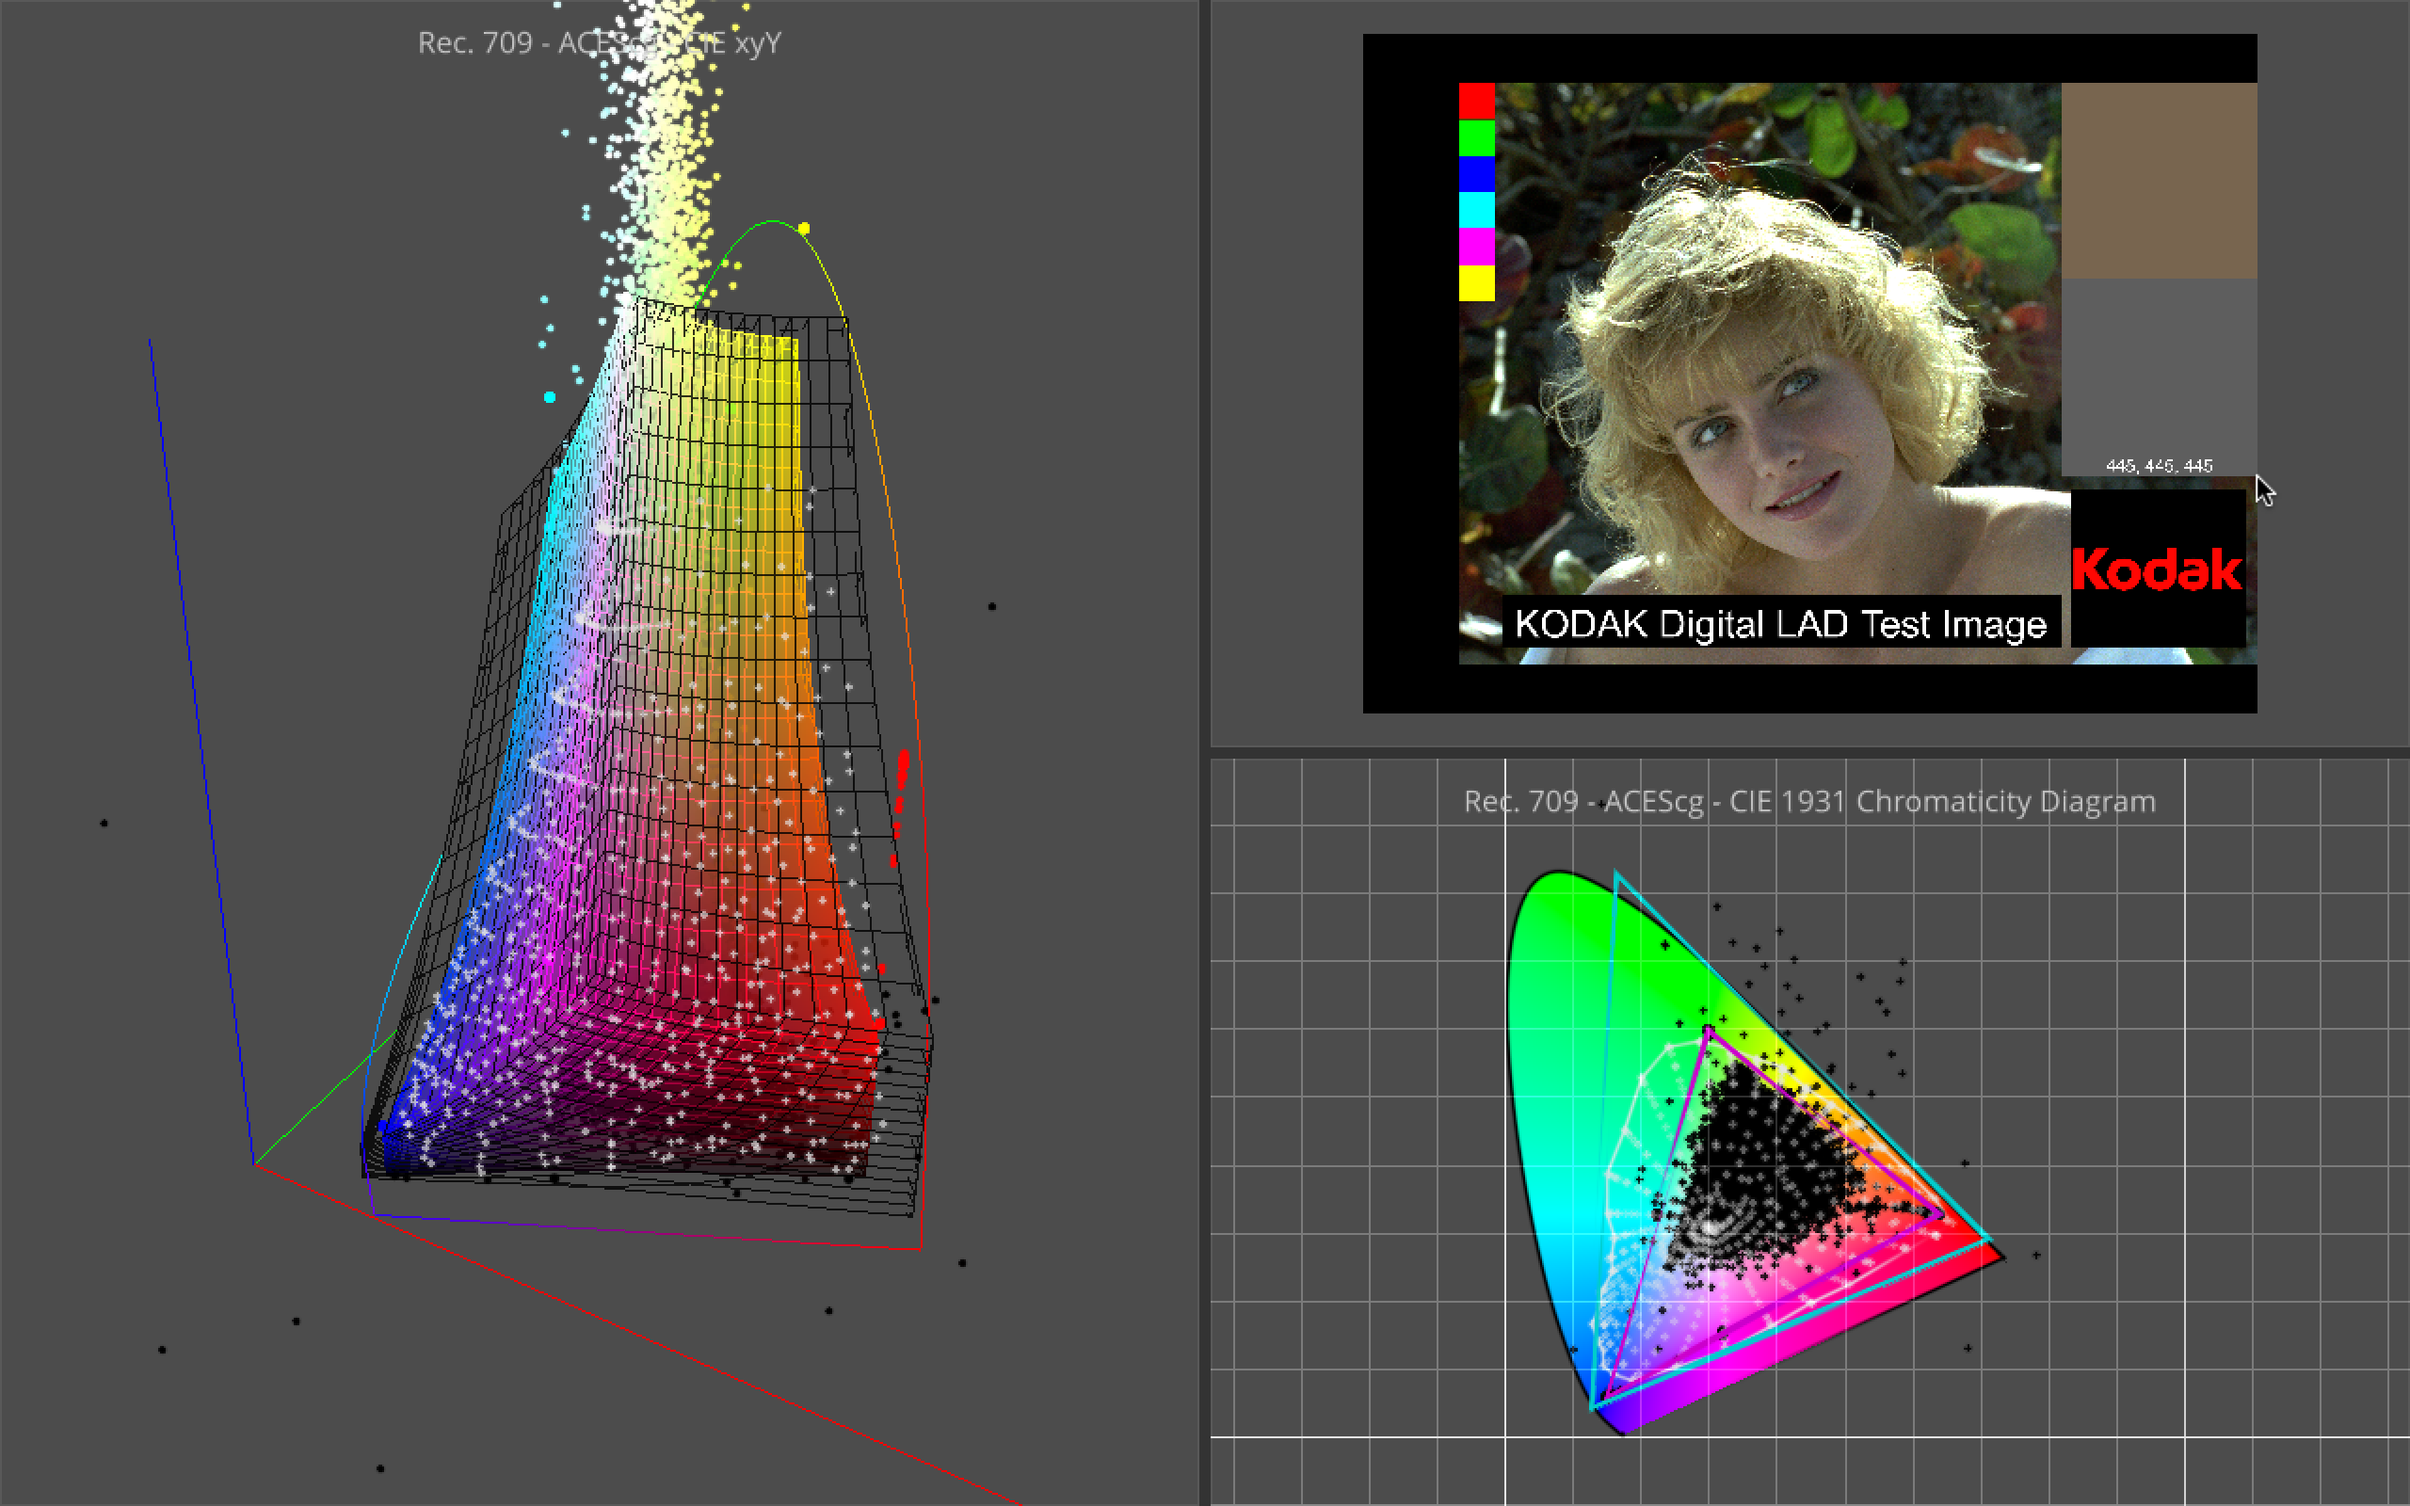
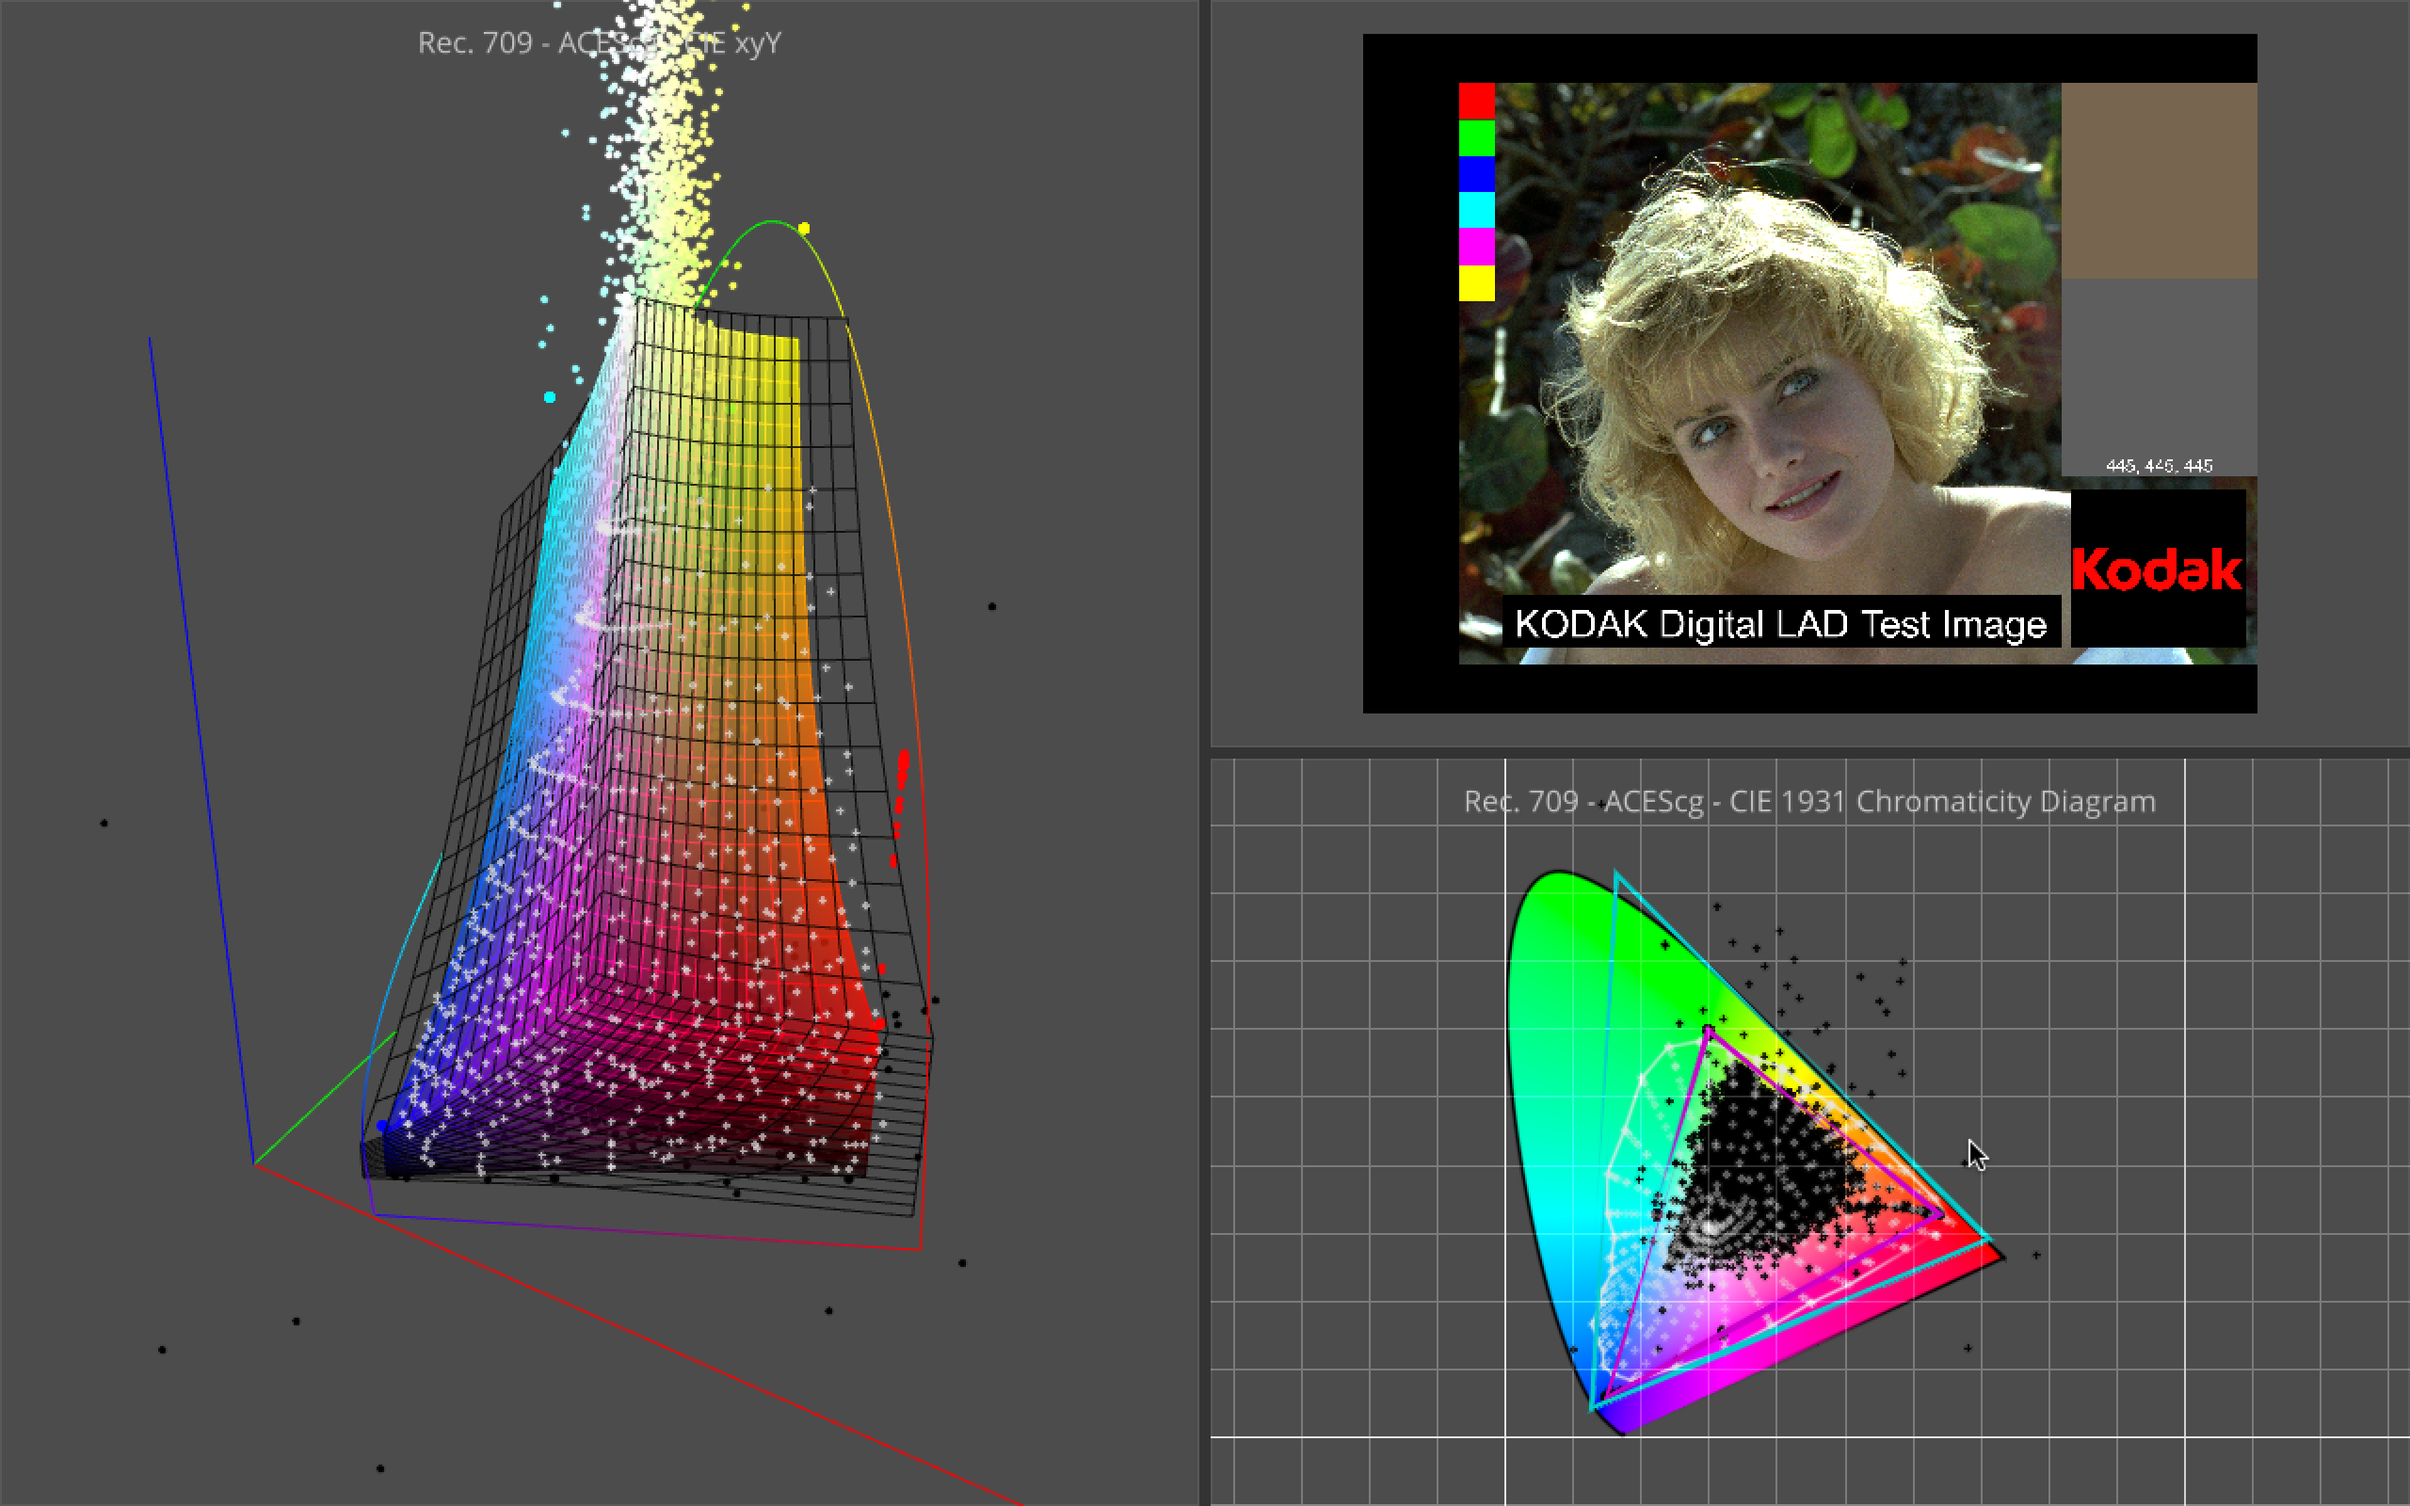
Fix drawing issues.

Changed region(s): [[0.125, 0.1875, 0.4062, 0.8125], [0.8125, 0.75, 0.8438, 0.7812]]

diff --git a/colour_analysis/analysis.py b/colour_analysis/analysis.py
@@ -65,7 +65,8 @@ class Analysis(SceneCanvas):
             keys='interactive',
             title="Colour Analysis - {0}".format(image_path),
             size=settings['canvas']['size'],
-            bgcolor=settings['canvas']['canvas_background_colour'])
+            bgcolor=settings['canvas']['canvas_background_colour'],
+            config={'samples': settings['canvas']['samples']})
 
         self.__image_path = None
         self.image_path = image_path

diff --git a/colour_analysis/cameras/orbit.py b/colour_analysis/cameras/orbit.py
@@ -71,3 +71,6 @@ class OrbitCamera(TurntableCamera):
         translate *= self.__translate_speed
 
         return translate
+
+    def _get_depth_value(self):
+        return 100.0
